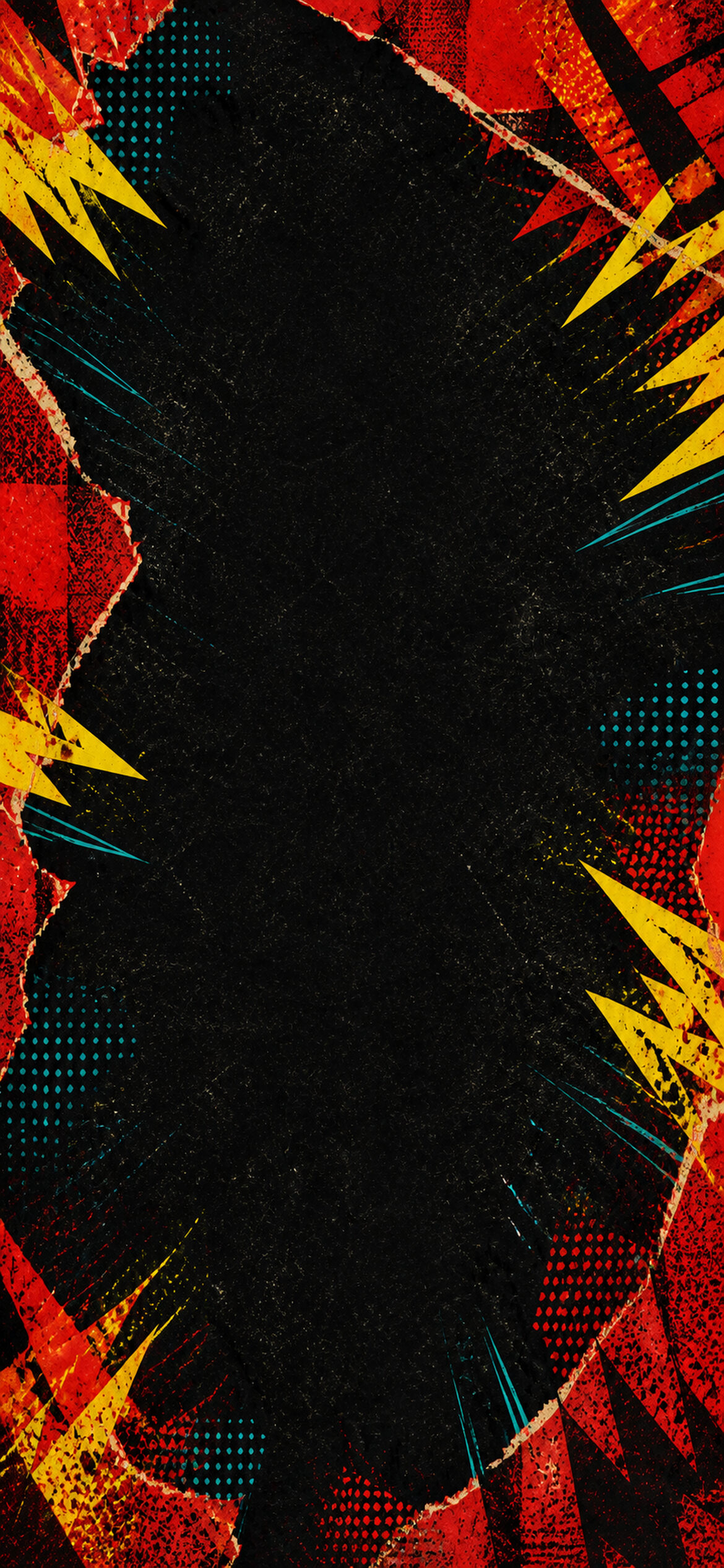
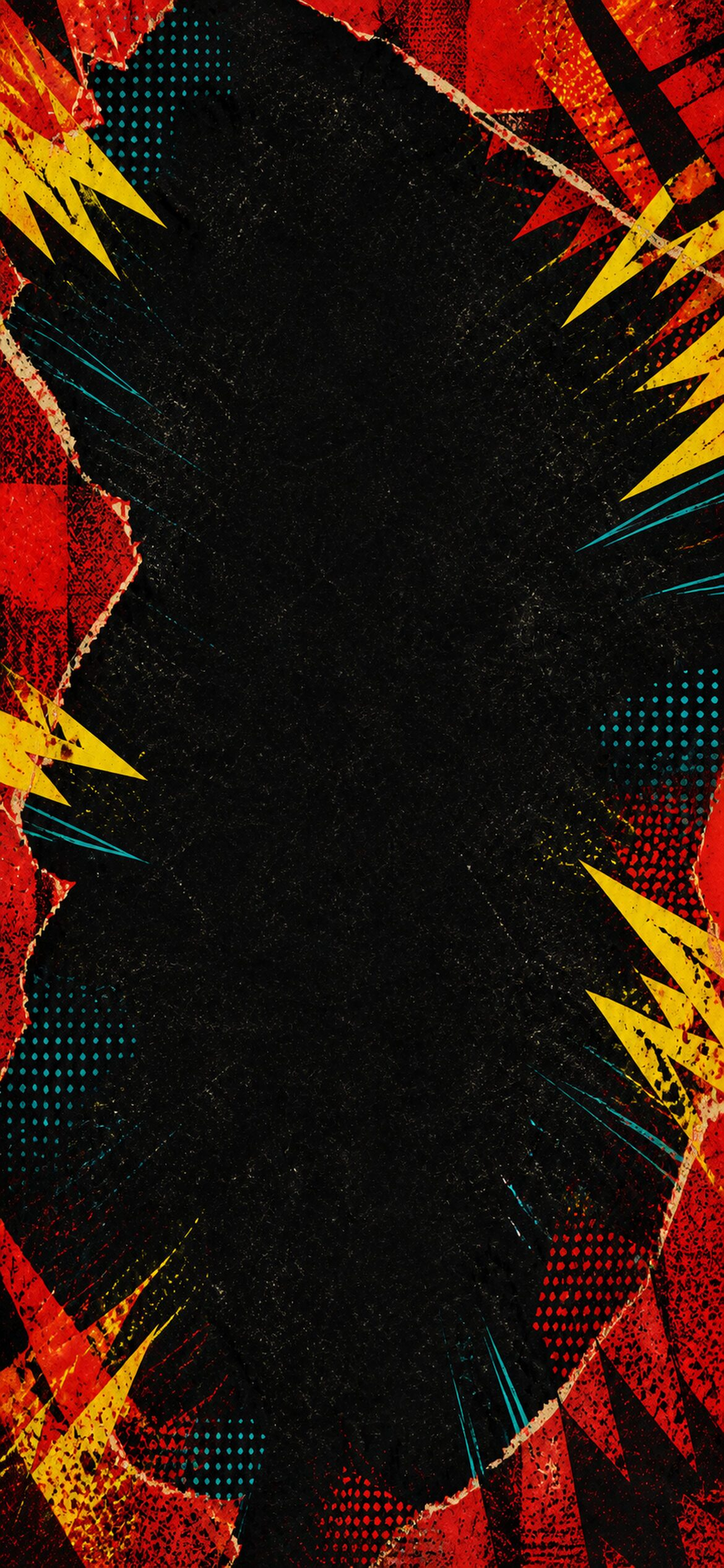
fix: preserve recovery gate and package headroom

diff --git a/apps/minigame/src/ui/screenHost.ts b/apps/minigame/src/ui/screenHost.ts
@@ -31,6 +31,7 @@ const ACTIVITY_BAR_HEIGHT = 48;
 const ACTIVITY_HIGHLIGHT_MS = 2_400;
 const MATCH_ACTIVITY_SCREEN_IDS = new Set<ScreenId>([
   "game", "other-turn", "attack", "response", "favor", "give-card", "future", "explosion", "defuse", "eliminated",
+  "game-menu", "rules", "card-detail", "settings", "network",
 ]);
 
 export class ScreenHost {
@@ -84,18 +85,20 @@ export class ScreenHost {
 
   start(): void {
     this.handleLaunchQuery(this.options.wx.getLaunchOptionsSync?.().query);
-    const initial = this.currentView();
-    this.lastRevision = this.options.session.getSnapshot().revision ?? -1;
+    const initialSnapshot = this.options.session.getSnapshot();
+    const initial = normalizeProductView(initialSnapshot.view, initialSnapshot.connectivity);
+    this.lastRevision = initialSnapshot.revision ?? -1;
     this.anchorServerClock(initial);
     this.authoritySounds.prime(soundView(initial));
     this.primeActivity(initial);
-    this.offerResumeIfNeeded(initial);
+    this.offerResumeIfNeeded(initial, initialSnapshot.lifecycle);
     this.unsubscribe = this.options.session.subscribe(() => {
-      const current = this.currentView();
+      const snapshot = this.options.session.getSnapshot();
+      const current = normalizeProductView(snapshot.view, snapshot.connectivity);
       this.anchorServerClock(current);
       this.authoritySounds.consume(soundView(current));
       this.consumeActivity(current);
-      const revision = this.options.session.getSnapshot().revision ?? -1;
+      const revision = snapshot.revision ?? -1;
       if (revision !== this.lastRevision) {
         const preserveResumeNavigation = this.resumeGateOpen;
         this.lastRevision = revision;
@@ -107,7 +110,7 @@ export class ScreenHost {
         }
         if (!current.eliminated) this.spectating = false;
       }
-      this.offerResumeIfNeeded(current);
+      this.offerResumeIfNeeded(current, snapshot.lifecycle);
       this.openInvitationIfReady();
       this.render();
     });
@@ -789,7 +792,7 @@ export class ScreenHost {
     this.activitySequence = Math.max(this.activitySequence, latestActivitySequence(view));
   }
 
-  private offerResumeIfNeeded(view: ProductViewModel): void {
+  private offerResumeIfNeeded(view: ProductViewModel, lifecycle: string): void {
     if (!this.resumeOfferPending || !view.authenticated) return;
     if (view.phase === "MATCH" || view.phase === "LOBBY") {
       this.resumeOfferPending = false;
@@ -798,7 +801,7 @@ export class ScreenHost {
       this.override = "home";
       return;
     }
-    if (view.phase === "HOME" && isLiveConnectivity(view.connectivity)) this.resumeOfferPending = false;
+    if (view.phase === "HOME" && lifecycle.toLowerCase() === "active") this.resumeOfferPending = false;
   }
 
   private resolveId(view: ProductViewModel): ScreenId {

diff --git a/design-qa.md b/design-qa.md
@@ -30,15 +30,17 @@
 ## Primary Interactions Tested
 
 - `继续牌局`：恢复到当前对局的准确派生页面。
+- 晚到权威快照：缓存首页处于恢复中时不会提前消费恢复提示，收到 `MATCH` 快照后仍显示 `继续牌局`。
 - `创建房间`：直接进入房间设置，不再经过“开一局 → 模式选择”。
 - `加入房间`：进入 6 位房间码输入页。
 - `新手教学`、`规则图鉴`、`设置`：均进入对应页面。
+- 牌局工具页：规则、卡牌详情、设置、网络和对局菜单持续显示最新行动与战报入口。
 - Browser console: 无 warning 或 error。
 
 ## WeChat Platform Evidence
 
 - 微信开发者工具 CLI 已使用正式 AppID `wxd8938809dbb08d94` 成功打开 `apps/minigame`，并对生产构建执行 `preview`。
-- 预览上传信息：总大小 `3,433,051` bytes；生产包内包含云托管环境 `prod-d0g8qcwrb047789af`、服务 `exploding-kitty-api` 与 `cloudContainer`，不包含 `localhost` 或 `127.0.0.1`。
+- 预览上传信息：总大小 `3,259,180` bytes，在 4 MiB 基准下保留超过 20% 余量；生产包内包含云托管环境 `prod-d0g8qcwrb047789af`、服务 `exploding-kitty-api` 与 `cloudContainer`，不包含 `localhost` 或 `127.0.0.1`。
 - 尚未取得微信开发者工具渲染截图，以及 iOS / Android 真机截图；因此首页视觉与触摸验收仍按 `docs/ACCEPTANCE.md` 标记为 blocked。
 
 ## Focused Region Comparison

diff --git a/apps/minigame/design-qa.md b/apps/minigame/design-qa.md
@@ -11,7 +11,7 @@
 - 实际点击探针通过 10/10：玩家人数、行动时间、机器人开关、声音开关、拆弹位置、目标单选、交牌选择与提交、首页导航和对局菜单导航。
 - 牌桌倒计时只局部重绘固定标题区域；选牌前后保持相同牌桌高度，未再触发整屏清空造成的中间闪烁。
 - 预览与生产构建均嵌入微信云托管环境 `prod-d0g8qcwrb047789af` 和服务 `exploding-kitty-api`，构建产物不包含本地服务地址。
-- 微信开发者工具 CLI 已使用正式 AppID `wxd8938809dbb08d94` 成功导入工程并生成生产预览包，CLI 报告总大小 `3,433,051` bytes。
+- 微信开发者工具 CLI 已使用正式 AppID `wxd8938809dbb08d94` 成功导入工程并生成生产预览包，CLI 报告总大小 `3,259,180` bytes，在 4 MiB 基准下保留超过 20% 余量。
 - 首页方案一的恢复入口、安全区压缩和牌局操作页半屏战报已在 390 x 844 浏览器 Canvas 夹具中完成交互回归。
 
 ## 尚未完成的平台验收

diff --git a/apps/minigame/README.md b/apps/minigame/README.md
@@ -54,7 +54,7 @@ apps/minigame/scripts/optimize-assets.ps1
 npm --workspace @exploding-kitty/minigame run check:assets
 ```
 
-当前素材总量为 2,936,635 字节，其中提示音共 21,224 字节，低于 3,800,000 字节目标；最大文件为 761,532 字节。生产构建会压缩脚本并移除 source map，资源检查同时要求整个 `release/` 在 4 MiB 基准下至少保留 20% 余量。正式上传前仍需在微信开发者工具中确认平台统计口径和主包限制。
+当前素材总量为 2,764,837 字节，其中提示音共 21,224 字节，低于 3,800,000 字节目标；最大文件为 587,593 字节。生产构建会压缩脚本并移除 source map，资源检查同时要求整个 `release/` 在 4 MiB 基准下至少保留 20% 余量。正式上传前仍需在微信开发者工具中确认平台统计口径和主包限制。
 
 ## 已知边界
 
